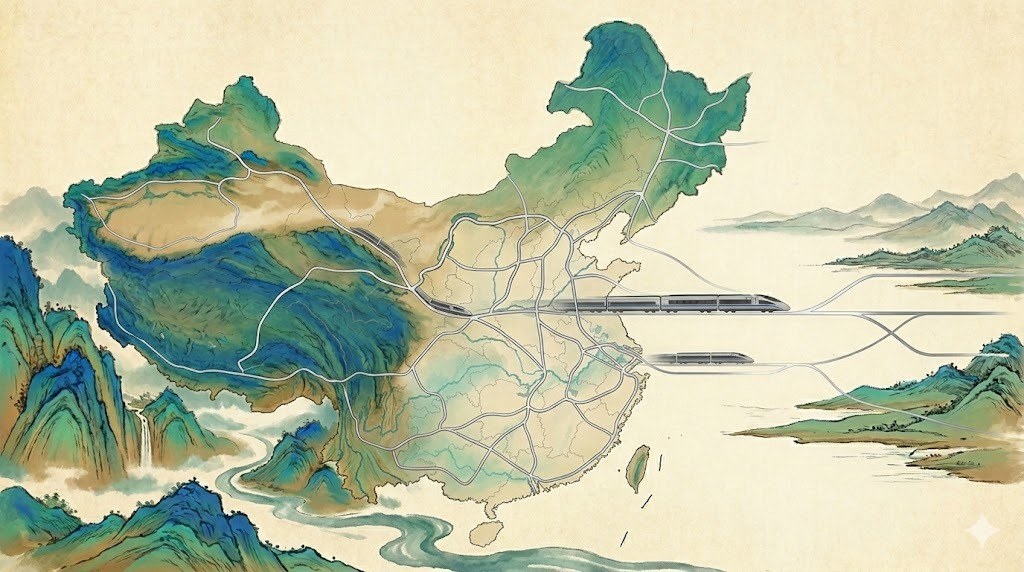
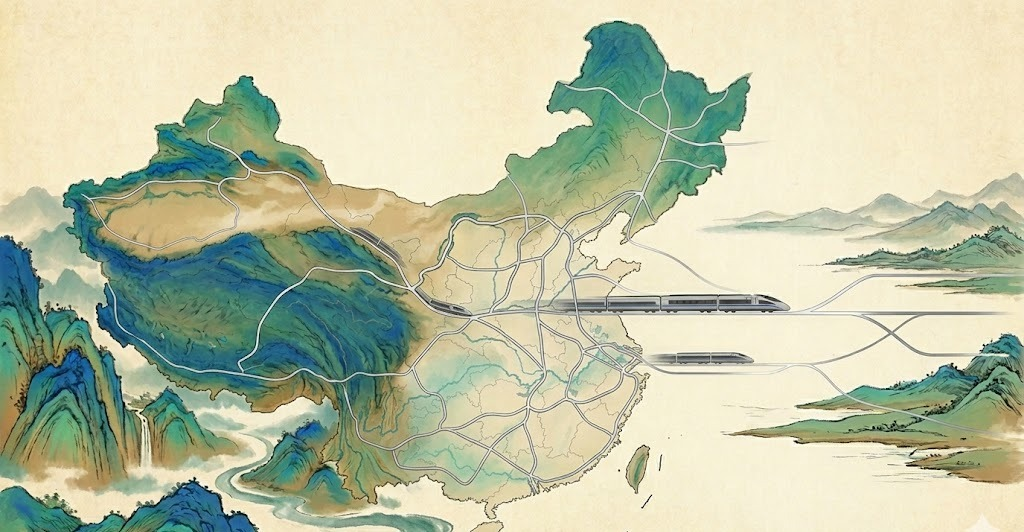
stretch map bg to fill viewport (preserveAspectRatio=none)

diff --git a/web/js/map.js b/web/js/map.js
@@ -40,7 +40,7 @@ class GameMap {
     bgImg.setAttribute('y', '10');
     bgImg.setAttribute('width', '750');
     bgImg.setAttribute('height', '630');
-    bgImg.setAttribute('preserveAspectRatio', 'xMidYMid meet');
+    bgImg.setAttribute('preserveAspectRatio', 'none');
     bgImg.setAttribute('clip-path', 'url(#map-clip)');
     bgImg.setAttribute('opacity', '0.55');
     this.svg.appendChild(bgImg);
